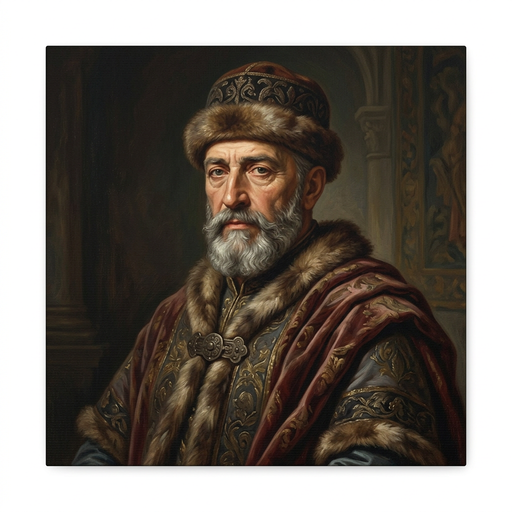
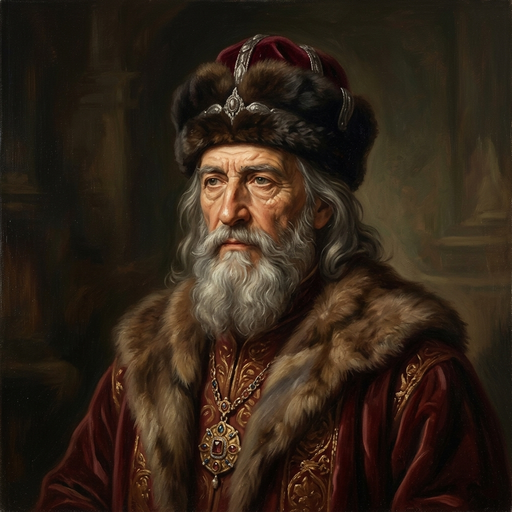
feat(forum): view counter on topics + regenerate Erekle II portrait
- show view count (TbEye) on topic page meta + topic cards
- regenerate erekle.png (the prior one rendered with an off framed look)

diff --git a/src/app/forum/[slug]/page.tsx b/src/app/forum/[slug]/page.tsx
@@ -3,7 +3,7 @@ export const dynamic = 'force-dynamic';
 import { Metadata } from 'next';
 import { notFound } from 'next/navigation';
 import Link from 'next/link';
-import { TbExternalLink, TbArrowLeft } from 'react-icons/tb';
+import { TbExternalLink, TbArrowLeft, TbEye } from 'react-icons/tb';
 
 import { ForumService } from '@/services/forum.service';
 import { ForumThread, type ForumPostView } from '@/components/forum/ForumThread';
@@ -25,6 +25,7 @@ interface TopicView {
     sourceImage?: string;
     sourceDomain?: string;
     postCount?: number;
+    views?: number;
     verdictKa?: string;
     likedBy?: ForumLiker[];
 }
@@ -91,6 +92,10 @@ export default async function ForumTopicPage({ params }: { params: Promise<{ slu
                 <p className="mt-4 text-on-surface-variant leading-relaxed">{topic.summaryKa}</p>
 
                 <div className="mt-3 flex flex-wrap items-center gap-4 text-sm">
+                    <span className="inline-flex items-center gap-1 text-on-surface-variant">
+                        <TbEye className="w-4 h-4" />
+                        {topic.views || 0} ნახვა
+                    </span>
                     {topic.sourceUrl && (
                         <a
                             href={topic.sourceUrl}

diff --git a/src/components/forum/ForumTopicCard.tsx b/src/components/forum/ForumTopicCard.tsx
@@ -1,5 +1,5 @@
 import Link from "next/link"
-import { TbMessage2, TbExternalLink } from "react-icons/tb"
+import { TbMessage2, TbExternalLink, TbEye } from "react-icons/tb"
 
 import { ForumLikeStack, type ForumLiker } from "@/components/forum/ForumLikeStack"
 
@@ -11,6 +11,7 @@ export interface ForumTopicCardData {
     sourceImage?: string
     sourceDomain?: string
     postCount?: number
+    views?: number
     likedBy?: ForumLiker[]
 }
 
@@ -47,6 +48,10 @@ export function ForumTopicCard({ topic }: { topic: ForumTopicCardData }) {
                     <span className="inline-flex items-center gap-1">
                         <TbMessage2 className="w-4 h-4" />
                         {topic.postCount || 0} მოსაზრება
+                    </span>
+                    <span className="inline-flex items-center gap-1">
+                        <TbEye className="w-4 h-4" />
+                        {topic.views || 0}
                     </span>
                     {topic.sourceDomain && (
                         <span className="inline-flex items-center gap-1 truncate">
